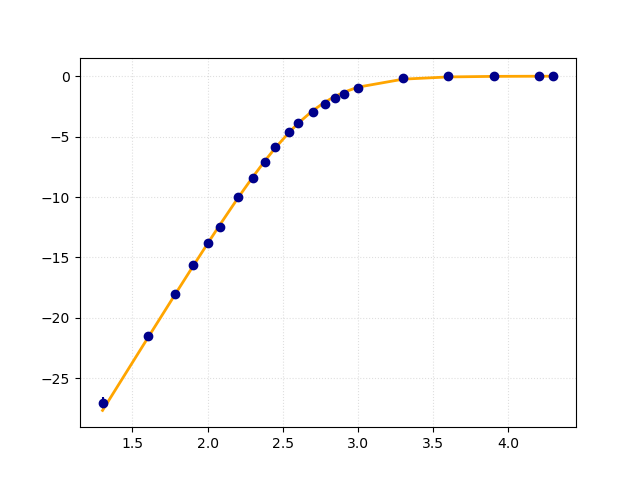
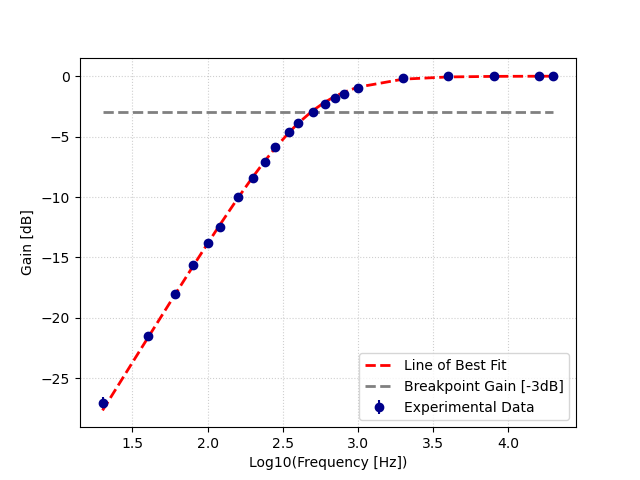
Data processing completed, this is the version used in lab, for public display add explanatory comments, directories and README

diff --git a/analysis.py b/analysis.py
@@ -12,16 +12,23 @@ def create_logy_plot(df_x, df_y):
     y = df_y.to_numpy()
 
     log_y = np.log(y)
-    slope, b = np.polyfit(x, log_y, 1) #Fit a polynomial of degree 1 (linear), tau is slope, b is y-intercept
+    slope, b = np.polyfit(x, log_y, 1) #Fit a polynomial of degree 1 (linear), slope is slope, b is y-intercept
     y_theory = slope*x + b
     y_err = (y*0.015 + 0.01) * (y**(-1)) #dy/y
 
     fig, ax = plt.subplots()
     plt.errorbar(x, log_y, yerr=y_err, fmt='o', color='darkblue', label='Experimental Data')
-    plt.plot(x, y_theory, linewidth=2.0, color='orange', label='Line of Best Fit')
-    ax.grid(True, linestyle=':', alpha=0.4)
+    plt.plot(x, y_theory, linewidth=2.0, linestyle='--', color='red', label='Line of Best Fit')
+    ax.grid(True, linestyle=':', alpha=0.6)
+    ax.legend()
+    ax.set_ylabel('ln(Voltage [Volts])')
+    ax.set_xlabel(r'Time [$\mu$s]')
+
+    #rescale tau to seconds
+    slope = slope/1e-6
     plt.savefig('decay_log_plot.png')
-    print("Tau: "  + str(-1/slope))
+    print("Experimental Tau: "  + str(-1/slope))
+    print("Theoretical Tau: " + str(R*C))
     print("FIGURE SAVED")
 
 #Task 3/4
@@ -29,6 +36,7 @@ def create_bode_plot(sig_in, sig_out_df, freq_df, type):
     #sig_in is constant
     sig_out = sig_out_df.to_numpy()
     freq = freq_df.to_numpy()
+    bp_intersect = np.ones(freq.size) * -3
 
     gain = 20 * (np.log10(sig_out/sig_in))
     log_freq = np.log10(freq)
@@ -40,8 +48,21 @@ def create_bode_plot(sig_in, sig_out_df, freq_df, type):
 
     fig, ax = plt.subplots()
     plt.errorbar(log_freq, gain, yerr=gain_err, fmt='o', color='darkblue', label='Experimental Data')
-    plt.plot(log_freq, gain_theory, linewidth=2.0, color='orange', label='Line of Best Fit')
-    ax.grid(True, linestyle=':', alpha=0.4)
+    plt.plot(log_freq, gain_theory, linewidth=2.0, linestyle='--', color='red', label='Line of Best Fit')
+    plt.plot(log_freq, bp_intersect, linewidth=2.0, linestyle='--', color='grey', label='Breakpoint Gain [-3dB]')
+    ax.grid(True, linestyle=':', alpha=0.6)
+    ax.legend()
+    ax.set_ylabel('Gain [dB]')
+    ax.set_xlabel('Log10(Frequency [Hz])')
+
+    print("Theoretical Half Power Frequency: " + str(1/(2*np.pi*R*C)))
+    freq_interp = np.arange(400, 550)
+    log_freq_interp = np.log10(freq_interp)
+    gain_interp = np.interp(log_freq_interp, log_freq, gain) #linear interpolation of the data to find a minimum, range used for around 70 plus/minus theoretical value
+    bp_intersect = np.ones(gain_interp.size) * -3
+    difference = np.abs(gain_interp - bp_intersect) 
+    bp_exp_freq = freq_interp[np.argmin(difference)]
+    print("Experimental Half Power Frequency: " + str(bp_exp_freq))
     plt.savefig(str(type) + '_pass_filter_bode_plot.png')
     print("FIGURE SAVED")
 
